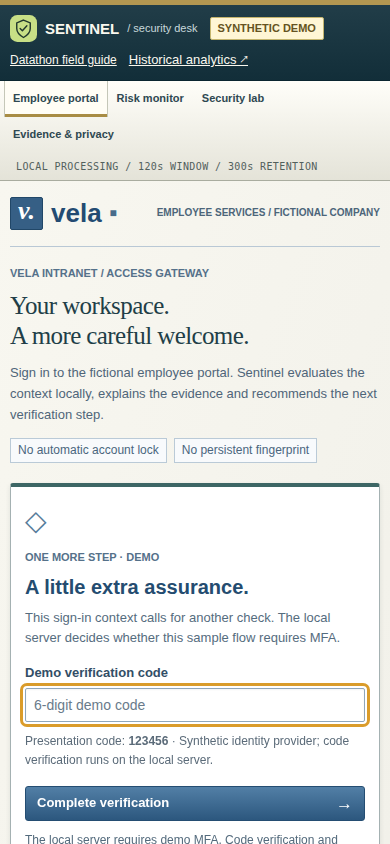
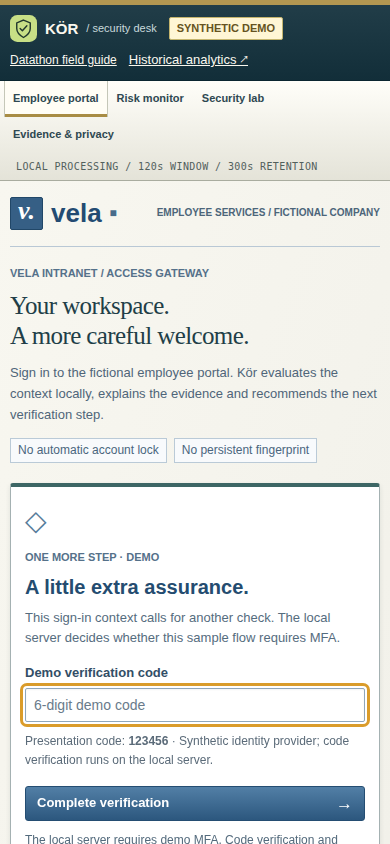
Rename the project to Kör across product and presentation

Changed region(s): [[0.1231, 0.0, 0.8308, 0.0616], [0.6154, 0.4313, 0.9231, 0.4621]]

diff --git a/app/index.html b/app/index.html
@@ -3,9 +3,9 @@
 <head>
   <meta charset="utf-8">
   <meta name="viewport" content="width=device-width, initial-scale=1">
-  <meta name="description" content="Ephemeral Login Sentinel — a colorful local workspace for privacy-conscious session risk analysis.">
+  <meta name="description" content="Kör — a colorful local workspace for privacy-conscious session risk analysis.">
   <meta name="color-scheme" content="light">
-  <title>Sentinel · See the whole sign-in story</title>
+  <title>Kör · See the whole sign-in story</title>
   <link rel="icon" href="./icon.svg" type="image/svg+xml">
   <link rel="stylesheet" href="./styles.css">
   <script type="module" src="./main.js"></script>
@@ -13,7 +13,7 @@
 <body>
   <a class="skip-link" href="#main">Skip to content</a>
   <aside class="sidebar">
-    <a class="brand" href="#overview" aria-label="Sentinel overview"><span class="brand-symbol" aria-hidden="true">✳</span><span>SENTINEL<small>A CLEARER SIGN-IN STORY</small></span></a>
+    <a class="brand" href="#overview" aria-label="Kör overview"><span class="brand-symbol" aria-hidden="true">✳</span><span>KÖR<small>A CLEARER SIGN-IN STORY</small></span></a>
     <div class="workspace"><span class="workspace-icon">E</span><span>Your local workspace<small>Synthetic research prototype</small><span class="online-dot"></span></span></div>
     <p class="nav-label">YOUR WORKSPACE</p>
     <nav aria-label="Main navigation">
@@ -23,10 +23,10 @@
       <button class="nav-item" data-view="privacy"><span aria-hidden="true">◇</span> Privacy boundaries</button>
     </nav>
     <div class="sidebar-note"><div class="rainbow-arch" aria-hidden="true"><span></span></div><h3>More context.<br>A clearer picture.</h3><p>Understand the signals.<br>Choose a thoughtful next step.</p><span class="local-tag"><i></i> Local processing, by design</span></div>
-    <div class="sidebar-footer"><span class="tiny-mark">✦</span><span>Ephemeral Login Sentinel<small>Prototype · Synthetic evaluation</small></span></div>
+    <div class="sidebar-footer"><span class="tiny-mark">✦</span><span>Kör<small>Prototype · Synthetic evaluation</small></span></div>
   </aside>
   <div class="shell">
-    <header class="topbar"><div><span class="breadcrumb">Workspace</span><span class="slash">/</span><span id="page-name">Overview</span></div><div class="topbar-right"><a class="try-demo-link" href="./company.html">Try the sign-in experience ↗</a><span class="connection"><i></i> Local environment</span><span class="avatar" aria-label="Sentinel workspace">EL</span></div></header>
+    <header class="topbar"><div><span class="breadcrumb">Workspace</span><span class="slash">/</span><span id="page-name">Overview</span></div><div class="topbar-right"><a class="try-demo-link" href="./company.html">Try the sign-in experience ↗</a><span class="connection"><i></i> Local environment</span><span class="avatar" aria-label="Kör workspace">K</span></div></header>
     <main id="main" tabindex="-1">
       <div class="page-heading"><div><p class="eyebrow">A LITTLE CONTEXT. A LOT MORE CLARITY.</p><h1 id="page-title">See the whole story<span>.</span></h1><p id="page-description">Turn sign-in signals into a clearer next step.</p></div><div class="heading-actions"><button id="reset-button" class="button secondary">Clear data / Mock</button><button id="import-button" class="button primary"><span aria-hidden="true">↑</span> Import CSV</button><input id="csv-input" type="file" accept=".csv,text/csv" hidden></div></div>
       <div id="notice" class="notice" role="status" aria-live="polite"><span class="pill mock-pill">MOCK</span><p><strong>Interface preview.</strong> Scores and reasons are fixed illustrations, not model results or performance metrics.</p></div>
@@ -58,7 +58,7 @@
       <section id="privacy-view" class="info-view" aria-labelledby="privacy-title" hidden>
         <div class="panel prose-panel"><p class="eyebrow">LOCAL PROCESSING. EXPLICIT BOUNDARIES.</p><h2 id="privacy-title">Transient data. Lasting care.</h2><p>CSV is processed in browser memory and is never uploaded. No browser storage, analytics or third-party requests are used. The model JSON is fetched only from the same local server. Its checksum detects accidental corruption, not model authenticity. Imported data references are released after your chosen 5 / 10 / 15 minutes, on reset or when leaving the page. Suspended tabs recheck expiry on return. This is not a physical memory-wiping guarantee.</p><div class="flow-diagram"><div><small>01</small><strong>Identity provider</strong><span>Raw credentials stay here</span></div><span aria-hidden="true">→</span><div><small>02</small><strong>Local context</strong><span>Two-minute count window</span></div><span aria-hidden="true">→</span><div><small>03</small><strong>Risk & next steps</strong><span>MFA or human review</span></div></div><div class="privacy-rules"><article><h3>A temporary session</h3><p>The production design uses a short-lived random session key. This demo creates no cookies and records no mouse or keyboard biometrics.</p></article><article><h3>An opaque account</h3><p>Use a customer identity provider's opaque ID instead of a username. Leave account_token empty if it is unnecessary. Format checks do not guarantee anonymity.</p></article><article><h3>A measured response</h3><p>Risk runs from 0 to 100; higher means greater risk. It is not a probability or safety guarantee. The demo never locks accounts or triggers real MFA.</p></article><article><h3>Only demonstration inputs</h3><p>Never put real credentials, raw IP addresses, customer records or leaked files into an AI conversation. Use the supplied synthetic CSV and public Vela demo credentials.</p></article></div><div class="inline-note">No real 30-day history is assumed. Persistent device fingerprinting and biometric tracking remain outside this prototype. V2 carries only reference-list result flags, never plaintext passwords or list contents.</div></div>
       </section>
-      <footer class="page-footer"><span>EPHEMERAL LOGIN SENTINEL <span class="footer-dot">·</span> Local model / Synthetic evaluation</span><span>See clearly. Respond thoughtfully. ✦</span></footer>
+      <footer class="page-footer"><span>KÖR <span class="footer-dot">·</span> Local model / Synthetic evaluation</span><span>See clearly. Respond thoughtfully. ✦</span></footer>
     </main>
   </div>
   <noscript>This local demo requires JavaScript. No CSV or model has been run.</noscript>

diff --git a/app/company.html b/app/company.html
@@ -3,22 +3,22 @@
 <head>
   <meta charset="utf-8">
   <meta name="viewport" content="width=device-width, initial-scale=1">
-  <meta name="description" content="Sentinel security demonstration: customer-local AI, expiring evidence and server-verified access. Synthetic accounts only.">
+  <meta name="description" content="Kör security demonstration: customer-local AI, expiring evidence and server-verified access. Synthetic accounts only.">
   <meta name="color-scheme" content="light">
-  <title>Sentinel / Vela Security Desk</title>
+  <title>Kör / Vela Security Desk</title>
   <link rel="icon" href="./icon.svg" type="image/svg+xml">
   <link rel="stylesheet" href="./company.css">
   <script type="module" src="./company.js"></script>
 </head>
 <body>
   <a href="#login-main" class="skip-link">Skip to sign in</a>
-  <header class="demo-bar"><a href="./company.html" class="sentinel-wordmark"><img src="./icon.svg" width="27" height="27" alt=""> SENTINEL <span>/ security desk</span></a><span class="demo-badge">SYNTHETIC DEMO</span><a href="./datathon.html" class="back-link">Datathon field guide</a><a href="./">Historical analytics ↗</a></header>
+  <header class="demo-bar"><a href="./company.html" class="kor-wordmark"><img src="./icon.svg" width="27" height="27" alt=""> KÖR <span>/ security desk</span></a><span class="demo-badge">SYNTHETIC DEMO</span><a href="./datathon.html" class="back-link">Datathon field guide</a><a href="./">Historical analytics ↗</a></header>
   <nav class="desk-nav" aria-label="Demo sections"><a href="#login-main" aria-current="page">Employee portal</a><a href="#console-title">Risk monitor</a><a href="#security-desk">Security lab</a><a href="#insights-title">Evidence &amp; privacy</a><span>LOCAL PROCESSING / 120s WINDOW / 300s RETENTION</span></nav>
   <main class="demo-layout" id="login-main">
     <section class="company-stage" aria-label="Vela employee portal">
       <div class="company-top"><a href="./company.html" class="vela-brand" aria-label="Vela demo home"><span class="vela-mark" aria-hidden="true">v.</span> vela<span class="brand-dot" aria-hidden="true">■</span></a><span class="portal-label">EMPLOYEE SERVICES / FICTIONAL COMPANY</span></div>
       <div class="stage-body">
-        <div class="stage-intro"><span class="eyebrow">VELA INTRANET / ACCESS GATEWAY</span><h1>Your workspace.<br><em>A more careful welcome.</em></h1><p>Sign in to the fictional employee portal. Sentinel evaluates the context locally, explains the evidence and recommends the next verification step.</p><div class="stage-tags"><span>No automatic account lock</span><span>No persistent fingerprint</span></div></div>
+        <div class="stage-intro"><span class="eyebrow">VELA INTRANET / ACCESS GATEWAY</span><h1>Your workspace.<br><em>A more careful welcome.</em></h1><p>Sign in to the fictional employee portal. Kör evaluates the context locally, explains the evidence and recommends the next verification step.</p><div class="stage-tags"><span>No automatic account lock</span><span>No persistent fingerprint</span></div></div>
         <div class="login-card">
           <div id="login-panel">
             <div class="card-heading"><span class="small-icon" aria-hidden="true">↗</span><span class="small-label">YOUR VELA WORKSPACE</span></div>
@@ -43,17 +43,17 @@
             <div class="workspace-preview"><div><span>ON THE HORIZON</span><strong>Something wonderful</strong><p>Product team · 8 demo members</p></div><div class="project-progress"><span></span></div><div class="task-row"><span class="task-check">✓</span> Design review <small>Complete</small></div><div class="task-row"><span class="task-check">○</span> Team catch-up <small>14:30</small></div></div>
             <button id="sign-out" type="button" class="primary-button">Sign out <span aria-hidden="true">↗</span></button><p class="code-hint">A fictional workspace. No real company information.</p>
           </div>
-          <div class="secured-by"><span class="secure-dot"></span> Sign-in insights by <strong>Sentinel</strong></div>
+          <div class="secured-by"><span class="secure-dot"></span> Sign-in insights by <strong>Kör</strong></div>
         </div>
         <section class="demo-runbook" aria-labelledby="runbook-title"><p class="eyebrow">PRESENTATION / APPROX. 4 MINUTES</p><h2 id="runbook-title">Follow the evidence.</h2>
           <ol><li><strong>Verify a sign-in.</strong> Fill the public credentials, then use the demo MFA code.</li><li><strong>Change the context.</strong> Replay brute force or load a suspicious-success example.</li><li><strong>Challenge the evidence.</strong> Alter a copy of the current decision receipt in the security lab.</li><li><strong>Test the boundary.</strong> Open the employee resource, then attempt the restricted audit console.</li><li><strong>Reset.</strong> Remove the demo records, authorization and receipt key together.</li></ol>
           <p class="runbook-note">The baseline currently recommends review even for normal logins because validated thresholds are unavailable. The tuned candidate remains blocked. This demo makes that limitation visible.</p><a href="./datathon.html">Read the judging brief and measured limitations →</a>
         </section>
       </div>
-      <footer class="company-footer"><span>Vela · A fictional company</span><span>Ephemeral Login Sentinel / Research prototype</span></footer>
+      <footer class="company-footer"><span>Vela · A fictional company</span><span>Kör / Research prototype</span></footer>
       <div class="orbit orbit-one" aria-hidden="true"></div><div class="orbit orbit-two" aria-hidden="true"></div>
     </section>
-    <aside class="sentinel-console" aria-labelledby="console-title">
+    <aside class="kor-console" aria-labelledby="console-title">
       <div class="console-heading"><div><p class="eyebrow">OPERATIONS / LIVE DEMO EVIDENCE</p><h2 id="console-title">Session risk monitor</h2></div><span class="live-badge"><i></i> Local</span></div>
       <p class="console-intro">Model score, verification and policy are separate signals. A low score alone does not grant access.</p>
       <div class="model-line" id="company-model-status" role="status">Connecting to the local verification service…</div>

diff --git a/app/company.css b/app/company.css
@@ -42,15 +42,15 @@ img { max-width: 100%; }
   border-bottom: 1px solid #0b2630;
   background: linear-gradient(#213d48, #122e39);
 }
-.demo-bar a, .demo-bar .sentinel-wordmark { color: #faf8ef; }
-.demo-bar .sentinel-wordmark span { color: #c9d9dc; }
+.demo-bar a, .demo-bar .kor-wordmark { color: #faf8ef; }
+.demo-bar .kor-wordmark span { color: #c9d9dc; }
 .demo-bar a:hover { color: #f4d995; }
 .desk-nav { display:flex; align-items:center; flex-wrap:wrap; gap:0; border-bottom:1px solid #a9ac9f; background:linear-gradient(#fffef9,#e4e3d8); padding:0 24px; }
 .desk-nav a { padding:11px 15px; color:#2e4851; border-inline:1px solid transparent; font-weight:bold; text-decoration:none; }
 .desk-nav a[aria-current], .desk-nav a:hover { background:#fffdf5; border-inline-color:#c5c7b8; box-shadow:inset 0 -3px #a88c44; }
 .desk-nav span { margin-left:auto; padding:8px 12px; color:#52605c; font:10px Consolas,monospace; letter-spacing:.4px; }
-.sentinel-wordmark { display: flex; align-items: center; flex-wrap: wrap; gap: 8px; color: #23486c; text-decoration: none; font-size: 17px; font-weight: bold; }
-.sentinel-wordmark span { font-size: 12px; font-weight: normal; color: #586d80; }
+.kor-wordmark { display: flex; align-items: center; flex-wrap: wrap; gap: 8px; color: #23486c; text-decoration: none; font-size: 17px; font-weight: bold; }
+.kor-wordmark span { font-size: 12px; font-weight: normal; color: #586d80; }
 .demo-badge { display: inline-block; padding: 3px 7px; border: 1px solid #c4b56e; border-radius: 2px; background: #fff6d5; color: #655321; font-size: 11px; font-weight: bold; }
 .back-link { margin-left: auto; color: #2b5881; font-size: 13px; }
 .back-link span { margin-left: 5px; }
@@ -114,7 +114,7 @@ form input::placeholder { color: #697b8b; }
 .runbook-note { border-top:1px dashed #c0b99c; padding-top:12px; color:#655832; font-size:12px; line-height:1.65; }
 
 /* Risk details retain every current/peak, quality, password and review field. */
-.sentinel-console { padding: 22px; border-left: 1px solid #adbecc; background: white; }
+.kor-console { padding: 22px; border-left: 1px solid #adbecc; background: white; }
 .console-heading { display: flex; align-items: flex-start; justify-content: space-between; flex-wrap: wrap; gap: 10px; }
 .console-heading h2 { margin: 5px 0 0; font-size: 23px; font-weight: bold; line-height: 1.25; }
 .console-heading .eyebrow { font-size: 10px; }
@@ -255,14 +255,14 @@ form input::placeholder { color: #697b8b; }
 @media(max-width:1200px) { .assurance-grid { grid-template-columns:repeat(2,minmax(0,1fr)); } .desk-nav span { width:100%; margin:0; } }
 @media(max-width:700px) { .assurance-grid { grid-template-columns:minmax(0,1fr); } }
 @media(max-width:480px) { .desk-nav { padding:0 4px; } .desk-nav a { padding:10px 8px; font-size:11px; } .assurance-section { padding:18px 10px; } .field-guide { margin:10px; padding:16px; } }
-@media print { .demo-bar, .desk-nav, button, form, .company-stage, .sentinel-console { display:none; } .demo-layout, .assurance-grid, .insights-grid { display:block; } .assurance-card, .insight-card { break-inside:avoid; margin-bottom:12px; } }
+@media print { .demo-bar, .desk-nav, button, form, .company-stage, .kor-console { display:none; } .demo-layout, .assurance-grid, .insights-grid { display:block; } .assurance-card, .insight-card { break-inside:avoid; margin-bottom:12px; } }
 @media (max-width: 1100px) { .insights-grid { grid-template-columns: minmax(0, 1fr); } }
 @media (max-width: 480px) { .insights-section { padding: 16px 10px; } .insight-card { padding: 12px; } .insight-card h3 { margin: -12px -12px 10px; padding: 9px 12px; } }
 
 @media (max-width: 1050px) {
   .demo-layout { grid-template-columns: minmax(0, 1fr) minmax(350px, 400px); }
   .company-stage { padding: 20px; }
-  .sentinel-console { padding: 18px; }
+  .kor-console { padding: 18px; }
   .login-card { padding: 16px; }
   .portal-label { max-width: 200px; }
 }
@@ -273,14 +273,14 @@ form input::placeholder { color: #697b8b; }
   .company-stage { padding: 18px; }
   .stage-body { padding: 20px 0; }
   .stage-intro, .login-card { max-width: 580px; }
-  .sentinel-console { border-left: 0; border-top: 1px solid #a9bece; padding: 20px; }
+  .kor-console { border-left: 0; border-top: 1px solid #a9bece; padding: 20px; }
   .console-heading h2 { font-size: 23px; }
 }
 
 @media (max-width: 480px) {
   .demo-bar { padding: 10px; gap: 9px 12px; }
-  .sentinel-wordmark { font-size: 15px; }
-  .sentinel-wordmark span { font-size: 11px; }
+  .kor-wordmark { font-size: 15px; }
+  .kor-wordmark span { font-size: 11px; }
   .back-link { margin-left: 0; font-size: 12px; }
   .company-stage { padding: 14px 10px; }
   .company-top { gap: 9px; }
@@ -289,7 +289,7 @@ form input::placeholder { color: #697b8b; }
   .stage-body { padding: 17px 0; }
   .login-card { padding: 14px; }
   .login-card h2 { font-size: 20px; }
-  .sentinel-console { padding: 16px 10px; }
+  .kor-console { padding: 16px 10px; }
   .console-heading h2 { font-size: 22px; }
   .live-signals { grid-template-columns: repeat(2, minmax(0, 1fr)); }
   .quality-card, .password-risk-card { padding: 10px; }

diff --git a/app/datathon.html b/app/datathon.html
@@ -1,7 +1,7 @@
 <!doctype html>
-<html lang="en"><head><meta charset="utf-8"><meta name="viewport" content="width=device-width,initial-scale=1"><title>Sentinel / Datathon field guide</title><link rel="icon" href="./icon.svg" type="image/svg+xml"><link rel="stylesheet" href="./company.css"></head>
-<body><header class="demo-bar"><a class="sentinel-wordmark" href="./company.html">SENTINEL <span>/ datathon field guide</span></a><span class="demo-badge">RESEARCH PROTOTYPE</span><a class="back-link" href="./company.html">Open the live demo →</a></header>
-<main class="field-guide"><p class="eyebrow">IBM Z DATATHON / SECURITY, PRIVACY &amp; RESPONSIBLE AI</p><h1>Useful risk signals.<br>Less identity exposure.</h1><p>Ephemeral Login Sentinel evaluates login events inside the customer environment, shows a 0–100 risk score and recommends verification or human review. It keeps short-lived evidence without retaining submitted passwords, real usernames, raw IPs or permanent device fingerprints.</p>
+<html lang="en"><head><meta charset="utf-8"><meta name="viewport" content="width=device-width,initial-scale=1"><title>Kör / Datathon field guide</title><link rel="icon" href="./icon.svg" type="image/svg+xml"><link rel="stylesheet" href="./company.css"></head>
+<body><header class="demo-bar"><a class="kor-wordmark" href="./company.html">KÖR <span>/ datathon field guide</span></a><span class="demo-badge">RESEARCH PROTOTYPE</span><a class="back-link" href="./company.html">Open the live demo →</a></header>
+<main class="field-guide"><p class="eyebrow">IBM Z DATATHON / SECURITY, PRIVACY &amp; RESPONSIBLE AI</p><h1>Useful risk signals.<br>Less identity exposure.</h1><p>Kör evaluates login events inside the customer environment, shows a 0–100 risk score and recommends verification or human review. It keeps short-lived evidence without retaining submitted passwords, real usernames, raw IPs or permanent device fingerprints.</p>
 <p><strong>AI for Good:</strong> help organizations notice account abuse while reducing unnecessary identity collection and avoiding automatic account locks that can deny legitimate users access.</p>
 <h2>A four-minute demonstration</h2><ol><li>Open the employee portal. Use <strong>demo / VelaDemo!42</strong>, then the public MFA code <strong>123456</strong>. The baseline's unavailable-threshold fallback recommends review even for normal sign-ins.</li><li>Reset, replay <strong>Brute force</strong>, and inspect account failures. Reset and replay <strong>Password spraying</strong> to inspect account breadth.</li><li>Reset and load the <strong>suspicious-success example</strong>, then sign in. A separate contextual safeguard requests verification without requiring preceding failed attempts. It does not change the ML score.</li><li>In the security lab, test an altered decision receipt: the original verifies and the modified score fails HMAC verification.</li><li>After verification, request the employee resource and the restricted audit console. Only the employee resource is authorized. Reset clears the grant, derived records and receipt key.</li></ol>
 <h2>What is actually implemented?</h2><div class="insight-table-wrap"><table><thead><tr><th>Boundary</th><th>Implemented control</th><th>What it does not prove</th></tr></thead><tbody>

diff --git a/app/serve.py b/app/serve.py
@@ -25,7 +25,7 @@ MAX_MODEL_BYTES = 512 * 1024
 REFERENCE_FILE = ROOT.parent / 'data' / 'password_reference.json'
 MAX_REFERENCE_BYTES = 4 * 1024 * 1024
 _reference_spec = importlib.util.spec_from_file_location(
-    'sentinel_password_check', ROOT.parent / 'src' / 'security' / 'password_check.py')
+    'kor_password_check', ROOT.parent / 'src' / 'security' / 'password_check.py')
 _reference_module = importlib.util.module_from_spec(_reference_spec)
 _reference_spec.loader.exec_module(_reference_module)
 ASSETS = {
@@ -163,7 +163,7 @@ class HeaderBudget:
 
 class DemoHandler(BaseHTTPRequestHandler):
     def version_string(self):
-        return 'SentinelLocal'
+        return 'KorLocal'
 
     def setup(self):
         super().setup()
@@ -389,7 +389,7 @@ def main():
         parser.exit(1, 'Local port or TLS files unavailable. Check --port and configured file paths.\n')
     except ValueError:
         parser.exit(1, 'Invalid runtime configuration. Role keys must be distinct; --tuned-demo requires a qualified intact release.\n')
-    print(f'Ephemeral Login Sentinel · {server.scheme}://127.0.0.1:{args.port}/company.html', flush=True)
+    print(f'Kör · {server.scheme}://127.0.0.1:{args.port}/company.html', flush=True)
     print('Local demo: company credentials are checked transiently on this local server; CSV stays in your browser. Trusted adapters run in shadow mode. Stop with Ctrl+C.', flush=True)
     try:
         server.serve_forever()

diff --git a/src/security/build_password_reference.py b/src/security/build_password_reference.py
@@ -23,7 +23,7 @@ MAX_DOWNLOAD_BYTES = 2 * 1024 * 1024
 def download(path: str) -> bytes:
     if path not in (*SOURCE_PATHS, 'LICENSE'):
         raise ValueError('Only the pinned public dictionary and license paths are allowed.')
-    request = urllib.request.Request(f'{RAW_ROOT}/{path}', headers={'User-Agent': 'Ephemeral-Login-Sentinel-reference-builder'})
+    request = urllib.request.Request(f'{RAW_ROOT}/{path}', headers={'User-Agent': 'Kor-reference-builder'})
     with urllib.request.urlopen(request, timeout=30) as response:
         if response.geturl() != request.full_url:
             raise ValueError('Unexpected source redirect.')

diff --git a/tests/test_demo_integration.py b/tests/test_demo_integration.py
@@ -32,7 +32,7 @@ class DemoIntegrationTests(unittest.TestCase):
         self.assertIn('10 JavaScript', self.run_js('app/tests/model-integration.test.mjs'))
 
     def test_all_actual_csv_events_have_python_javascript_score_and_reason_parity(self):
-        spec = importlib.util.spec_from_file_location('sentinel_portable_core', ROOT / 'src/models/core.py')
+        spec = importlib.util.spec_from_file_location('kor_portable_core', ROOT / 'src/models/core.py')
         core = importlib.util.module_from_spec(spec)
         spec.loader.exec_module(core)
         model = json.loads((ROOT / 'models/demo_model.json').read_text())

diff --git a/tests/test_runtime_hardening.py b/tests/test_runtime_hardening.py
@@ -25,7 +25,7 @@ from src.runtime import adapter
 from src.runtime.service import APIError, CONTEXTS, RuntimeService, sign_payload
 
 ROOT = Path(__file__).resolve().parents[1]
-SPEC = importlib.util.spec_from_file_location('sentinel_hardening_server', ROOT/'app/serve.py')
+SPEC = importlib.util.spec_from_file_location('kor_hardening_server', ROOT/'app/serve.py')
 serve = importlib.util.module_from_spec(SPEC)
 SPEC.loader.exec_module(serve)
 

diff --git a/tests/test_runtime_service.py b/tests/test_runtime_service.py
@@ -17,7 +17,7 @@ import uuid
 from src.runtime.service import RuntimeService, sign_payload, strict_json, APIError
 
 ROOT = Path(__file__).resolve().parents[1]
-spec = importlib.util.spec_from_file_location('sentinel_service_test_server', ROOT/'app/serve.py')
+spec = importlib.util.spec_from_file_location('kor_service_test_server', ROOT/'app/serve.py')
 serve = importlib.util.module_from_spec(spec)
 spec.loader.exec_module(serve)
 

diff --git a/tests/test_company_http.py b/tests/test_company_http.py
@@ -17,7 +17,7 @@ import unittest
 
 ROOT = Path(__file__).resolve().parents[1]
 NODE = shutil.which('node') or '/usr/lib/chatgpt/resources/cua_node/bin/node'
-spec = importlib.util.spec_from_file_location('sentinel_company_http', ROOT/'app/serve.py')
+spec = importlib.util.spec_from_file_location('kor_company_http', ROOT/'app/serve.py')
 serve = importlib.util.module_from_spec(spec)
 spec.loader.exec_module(serve)
 

diff --git a/tests/test_login_backoff.py b/tests/test_login_backoff.py
@@ -13,7 +13,7 @@ import uuid
 from src.runtime.service import APIError, CONTEXTS, RuntimeService, sign_payload
 
 ROOT = Path(__file__).resolve().parents[1]
-spec = importlib.util.spec_from_file_location('sentinel_backoff_http', ROOT/'app/serve.py')
+spec = importlib.util.spec_from_file_location('kor_backoff_http', ROOT/'app/serve.py')
 serve = importlib.util.module_from_spec(spec)
 spec.loader.exec_module(serve)
 

diff --git a/app/tests/test_server.py b/app/tests/test_server.py
@@ -17,7 +17,7 @@ from unittest import mock
 from html.parser import HTMLParser
 
 APP = Path(__file__).resolve().parents[1]
-spec = importlib.util.spec_from_file_location('sentinel_serve', APP / 'serve.py')
+spec = importlib.util.spec_from_file_location('kor_serve', APP / 'serve.py')
 serve = importlib.util.module_from_spec(spec)
 spec.loader.exec_module(serve)
 
